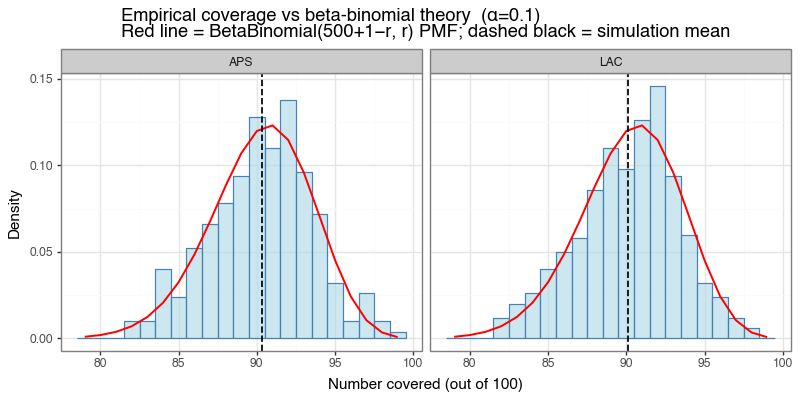
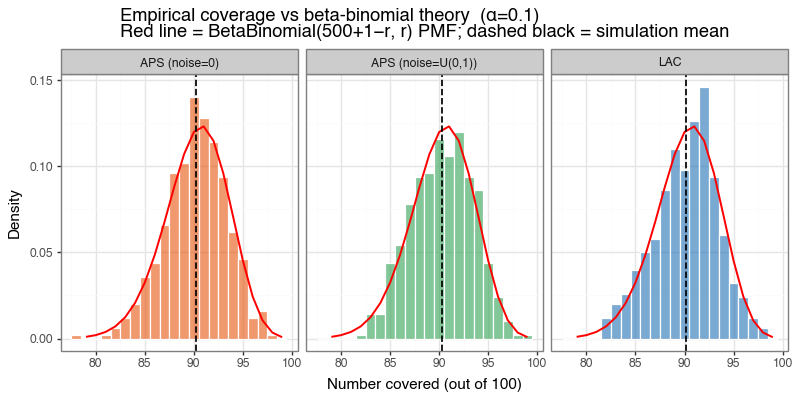
going to re-factor code to support temperature

diff --git a/_rmd/extra_conformal/post_figures.py b/_rmd/extra_conformal/post_figures.py
@@ -52,7 +52,7 @@ def parse_targets() -> set:
         action='append',
         help=(
             'Figure(s) to generate. Can be repeated or comma-separated. '
-            'Choices: all, digits, class, class_coverage, class_setsize, '
+            'Choices: all, digits, digits_v2, class, class_coverage, class_setsize, '
             'coverage_vs_alpha, reg, reg_coverage, reg_width, diabetes'
         ),
     )
@@ -60,7 +60,7 @@ def parse_targets() -> set:
 
     if not args.figure:
         return {
-            'digits', 'class_coverage', 'class_setsize',
+            'digits', 'digits_v2', 'class_coverage', 'class_setsize',
             'coverage_vs_alpha', 'reg_coverage', 'reg_width', 'diabetes'
         }
 
@@ -71,7 +71,7 @@ def parse_targets() -> set:
 
     if 'all' in requested:
         return {
-            'digits', 'class_coverage', 'class_setsize',
+            'digits', 'digits_v2', 'class_coverage', 'class_setsize',
             'coverage_vs_alpha', 'reg_coverage', 'reg_width', 'diabetes'
         }
 
@@ -84,7 +84,7 @@ def parse_targets() -> set:
         elif item == 'diabetes':
             expanded.add('diabetes')
         elif item in {
-            'digits', 'class_coverage', 'class_setsize',
+            'digits', 'digits_v2', 'class_coverage', 'class_setsize',
             'coverage_vs_alpha', 'reg_coverage', 'reg_width', 'diabetes'
         }:
             expanded.add(item)
@@ -213,6 +213,138 @@ if 'digits' in targets:
 
 
 # =========================================================================== #
+# FIGURE 1B — Digits v2: 4x3 table (rows=examples, cols=methods)
+# =========================================================================== #
+
+if 'digits_v2' in targets:
+    print("=== Figure 1B: Digits prediction-set examples (4x3 LAC vs APS variants) ===")
+
+    raw_X, raw_y = load_digits(return_X_y=True)
+    rng_dig2 = np.random.default_rng(42)
+    raw_X_noisy = raw_X + 8.0 * rng_dig2.random(raw_X.shape)
+
+    n_total   = raw_X_noisy.shape[0]
+    n_calib_d = 400
+    n_train_d = n_total - n_calib_d - 100
+    alpha_d   = 0.10
+
+    idx = rng_dig2.permutation(n_total)
+    idx_train = idx[:n_train_d]
+    idx_calib = idx[n_train_d:n_train_d + n_calib_d]
+    idx_test  = idx[n_train_d + n_calib_d:]
+
+    X_tr, y_tr = raw_X_noisy[idx_train], raw_y[idx_train]
+    X_cal, y_cal = raw_X_noisy[idx_calib], raw_y[idx_calib]
+    X_te, y_te   = raw_X_noisy[idx_test], raw_y[idx_test]
+
+    f_dig = LogisticRegression(C=0.1, max_iter=2000)
+    f_dig.fit(X_tr, y_tr)
+
+    method_specs = [
+        ('LAC', score_lac, {}),
+        ('APS (noise=U(0,1))', score_aps, {'noise': 'uniform', 'random_state': 42}),
+        ('APS (noise=0)', score_aps, {'noise': 0.0, 'random_state': 42}),
+    ]
+
+    cp_methods = {}
+    for method_name, score_cls, score_kwargs in method_specs:
+        cp = conformal_sets(
+            f_theta=f_dig,
+            score_fun=score_cls,
+            alpha=alpha_d,
+            upper=True,
+            **score_kwargs,
+        )
+        cp.fit(x=X_cal, y=y_cal)
+        cp_methods[method_name] = cp
+        print(f'  {method_name}: qhat={cp.qhat:.3f}')
+
+    classes = np.arange(10)
+    phat_te = f_dig.predict_proba(X_te)
+
+    # Pick 4 examples with varied LAC set sizes for diverse rows.
+    lac_sets = cp_methods['LAC'].predict(X_te)
+    picked = []
+    seen_sizes = set()
+    for i, s in enumerate(lac_sets):
+        size_i = len(s)
+        if size_i not in seen_sizes or size_i >= 3:
+            picked.append(i)
+            seen_sizes.add(size_i)
+        if len(picked) == 4:
+            break
+    if len(picked) < 4:
+        for i in range(len(y_te)):
+            if i not in picked:
+                picked.append(i)
+            if len(picked) == 4:
+                break
+
+    panel_rows = []
+    for row_id, i in enumerate(picked, start=1):
+        phat_i = phat_te[i]
+        true_i = int(y_te[i])
+        example_label = f'Example {row_id}: true={true_i}'
+        for method_name, _, _ in method_specs:
+            cp_i = cp_methods[method_name]
+            qhat_i = cp_i.qhat
+            tau_i = cp_i.predict(X_te[[i]])[0]
+            in_set_i = set(tau_i)
+
+            # LAC has a global probability cutoff; APS has an example-specific
+            # boundary in probability space, so use the minimum included
+            # probability as a visual boundary for that panel.
+            if method_name == 'LAC':
+                cutoff_prob = 1.0 - qhat_i
+            elif len(in_set_i) > 0:
+                cutoff_prob = float(np.min([phat_i[c] for c in in_set_i]))
+            else:
+                cutoff_prob = np.nan
+
+            for c in classes:
+                panel_rows.append({
+                    'example': example_label,
+                    'method': method_name,
+                    'class': str(c),
+                    'prob': float(phat_i[c]),
+                    'cutoff_prob': cutoff_prob,
+                    'in_set': bool(c in in_set_i),
+                    'true': bool(c == true_i),
+                })
+
+    dat_v2 = pd.DataFrame(panel_rows)
+    dat_v2['fill_group'] = np.where(dat_v2['true'], 'true label', 'other label')
+    dat_v2['edge_group'] = np.where(dat_v2['in_set'], 'in set', 'excluded')
+
+    method_order = [m[0] for m in method_specs]
+    dat_v2['method'] = pd.Categorical(dat_v2['method'], categories=method_order, ordered=True)
+
+    gg_dig_v2 = (
+        pn.ggplot(dat_v2, pn.aes(x='class', y='prob', fill='fill_group', color='edge_group'))
+        + pn.theme_bw()
+        + pn.geom_col(size=0.85)
+        + pn.geom_hline(pn.aes(yintercept='cutoff_prob'), linetype='dashed', color='black', size=0.5)
+        + pn.facet_grid('example~method')
+        + pn.scale_fill_manual(values={'true label': '#2171B5', 'other label': '#D9D9D9'})
+        + pn.scale_color_manual(values={'in set': '#2CA02C', 'excluded': '#D62728'})
+        + pn.scale_y_continuous(limits=(0, 1))
+        + pn.labs(x='Digit class', y='Predicted probability', fill='Label type', color='Set membership')
+        + pn.ggtitle('Digits prediction sets (4x3): LAC vs APS variants\n'
+                     f'Rows=examples, columns=methods, α={alpha_d}; dashed line is method-specific probability cutoff')
+        + pn.theme(
+            legend_position='bottom',
+            figure_size=(13, 10),
+            subplots_adjust={'wspace': 0.15, 'hspace': 0.25},
+        )
+    )
+
+    fn1b = os.path.join(dir_figs, 'conformal_digits_sets_v2.png')
+    gg_dig_v2.save(fn1b, width=13, height=10, verbose=False)
+    saved_files.append(fn1b)
+    print(f'  saved {fn1b}')
+
+
+# =========================================================================== #
 # FIGURE 2 — Classification simulation: LAC vs APS coverage + set size
 # =========================================================================== #
 
@@ -271,7 +403,13 @@ if 'class_coverage' in targets or 'class_setsize' in targets:
             pn.ggplot(dat_class, pn.aes(x='n_cover', y='..density..', fill='method'))
             + pn.theme_bw()
             + pn.geom_histogram(binwidth=1, color='white', alpha=0.6)
-            + pn.geom_line(pn.aes(x='x', y='pmf'), data=dat_pmf_c, color='red', size=0.8)
+            + pn.geom_line(
+                pn.aes(x='x', y='pmf'),
+                data=dat_pmf_c,
+                color='red',
+                size=0.8,
+                inherit_aes=False,
+            )
             + pn.geom_vline(
                 pn.aes(xintercept='mean_n_cover'),
                 data=dat_class_mean,
@@ -296,7 +434,7 @@ if 'class_coverage' in targets or 'class_setsize' in targets:
         gg_class_sz = (
             pn.ggplot(dat_class, pn.aes(x='set_size', fill='method'))
             + pn.theme_bw()
-            + pn.geom_histogram(binwidth=0.2, position='identity', color='white', alpha=0.5)
+            + pn.geom_histogram(binwidth=0.1, position='identity', color='white', alpha=0.5)
             + pn.scale_fill_manual(values=method_colors)
             + pn.labs(x='Average prediction set size', y='Count', fill='Score')
             + pn.ggtitle('Set size: LAC vs APS variants  (same coverage guarantee)')
